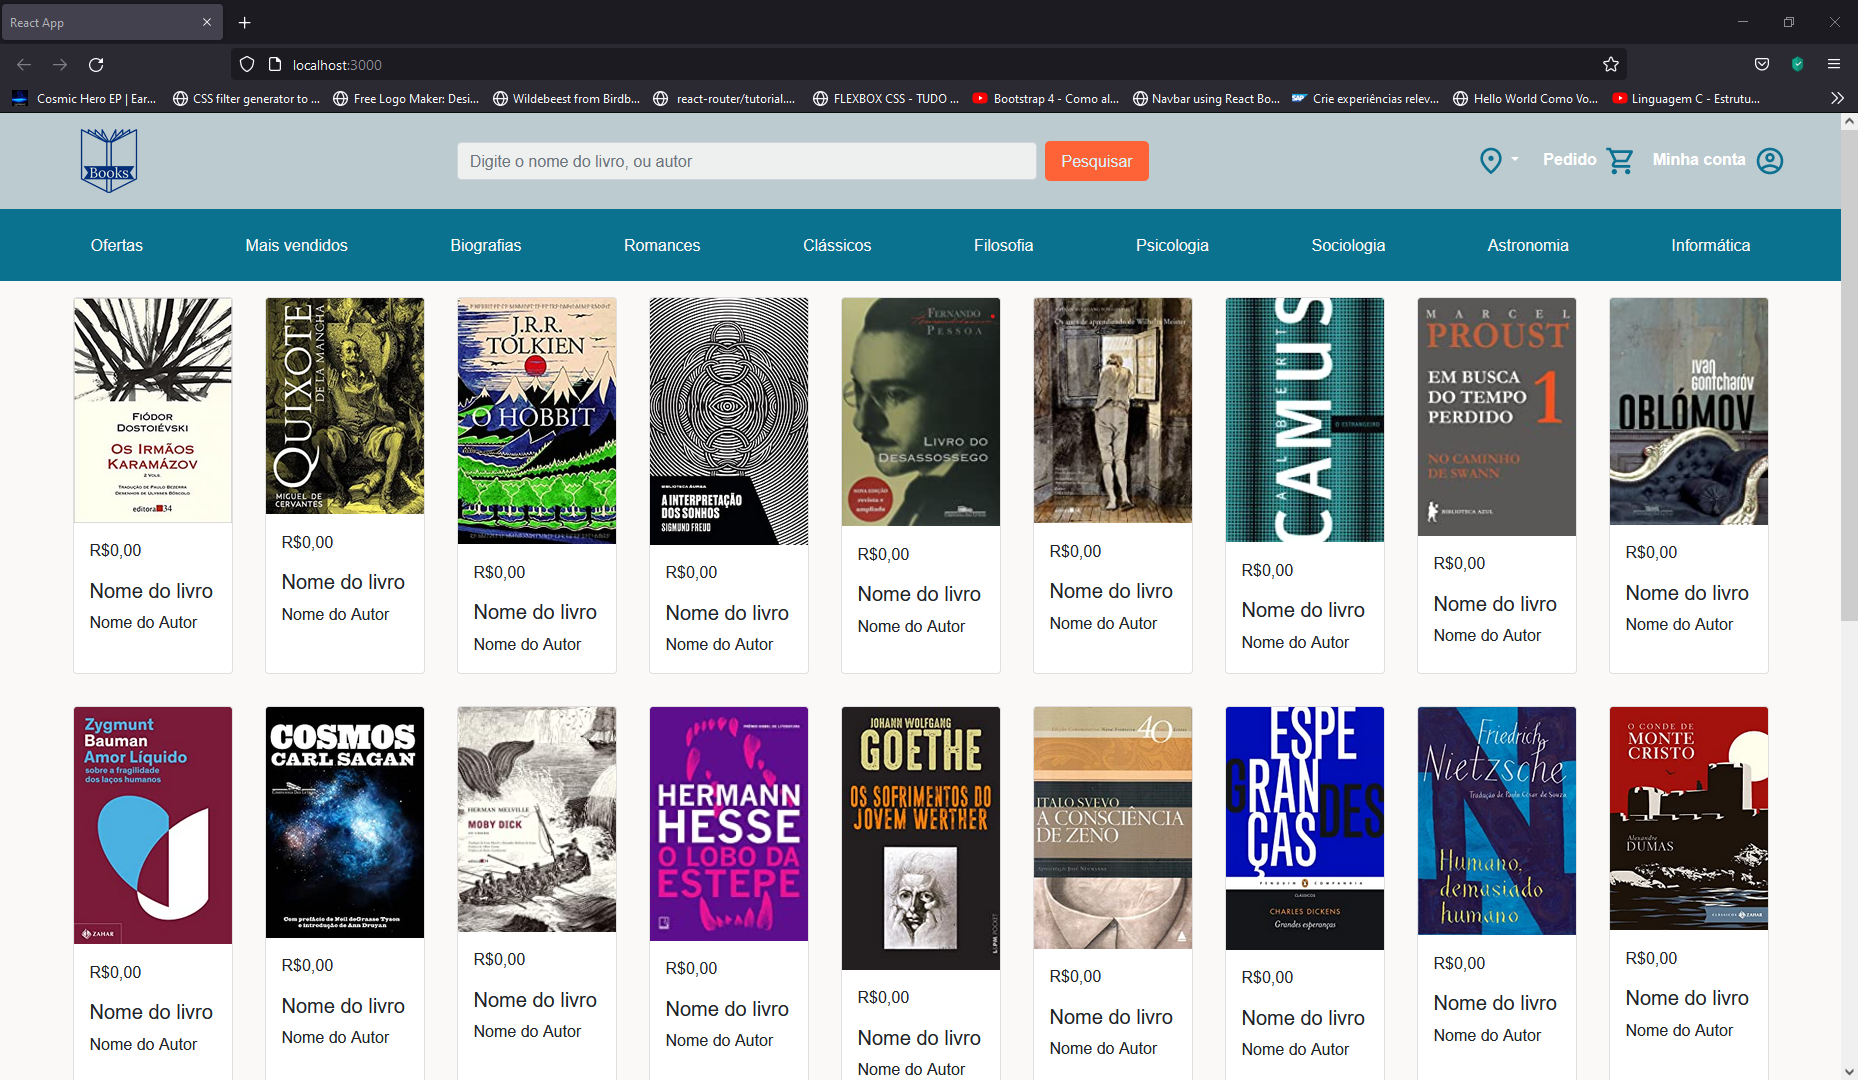
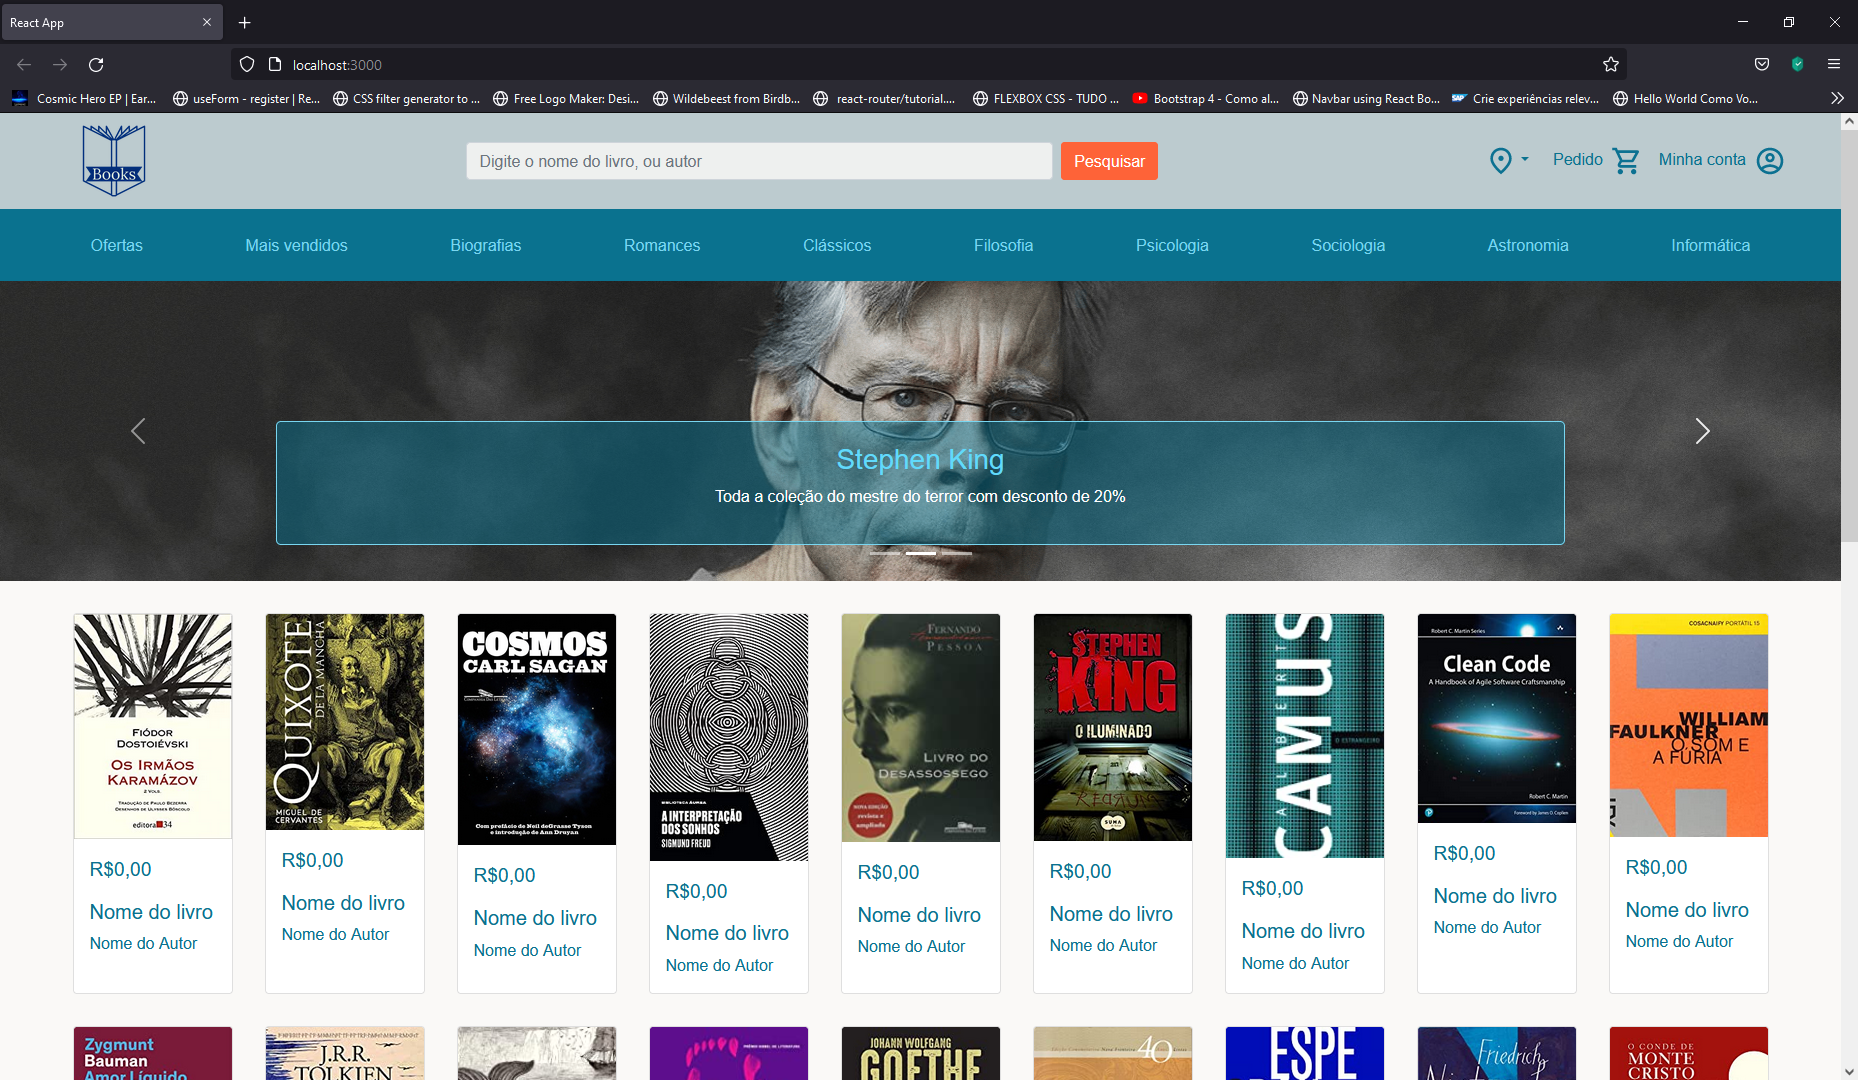
pweb_9

diff --git a/src/Assets/css/estilos.css b/src/Assets/css/estilos.css
@@ -300,10 +300,7 @@
   background-color: var(--E) !important;
   color: #0a728f !important;
 }
-.teste{
-  background-image: url(../img/background.jpg);
-  height: calc(100vh - 96px);
-}
+
 .row button{
   margin-top: 1rem;
   align-self: center;
@@ -326,9 +323,14 @@
 .row .Cadastro_Usuario_NaoTenho button{
   margin-top: 0 !important;
 }
+.CadastroUsuarioBackgroundImage{
+  background-image: url(../img/background.jpg);
+}
 .Cadastro_Usuario_Container{
-  margin-top: 3%;
-  
+  display: flex;
+  flex-direction: column;
+  height: calc(100vh - 168px);
+  justify-content: center;
 }
 .Cadastro_Usuario_Col_1{
   background-color: rgba(10, 114, 143, .5);

diff --git a/src/Pages/Home_Vitrine.js b/src/Pages/Home_Vitrine.js
@@ -37,7 +37,7 @@ function Home_Vitrine() {
           />
 
           <Carousel.Caption className='HomeVitrine_CarrouselTextos'>
-            <h3>Coleção completa Stephen King</h3>
+            <h3>Stephen King</h3>
             <p>Toda a coleção do mestre do terror com desconto de 20%</p>
           </Carousel.Caption>
         </Carousel.Item>

diff --git a/src/Pages/Cadastro_Usuario.js b/src/Pages/Cadastro_Usuario.js
@@ -140,7 +140,7 @@ function Cadastro_Usuario() {
   
 
   return (
-    <div className='teste'>
+    <div className='CadastroUsuarioBackgroundImage' >
       <Cabecalho />
       <MenuCentral />
       <Container className='Cadastro_Usuario_Container'>
